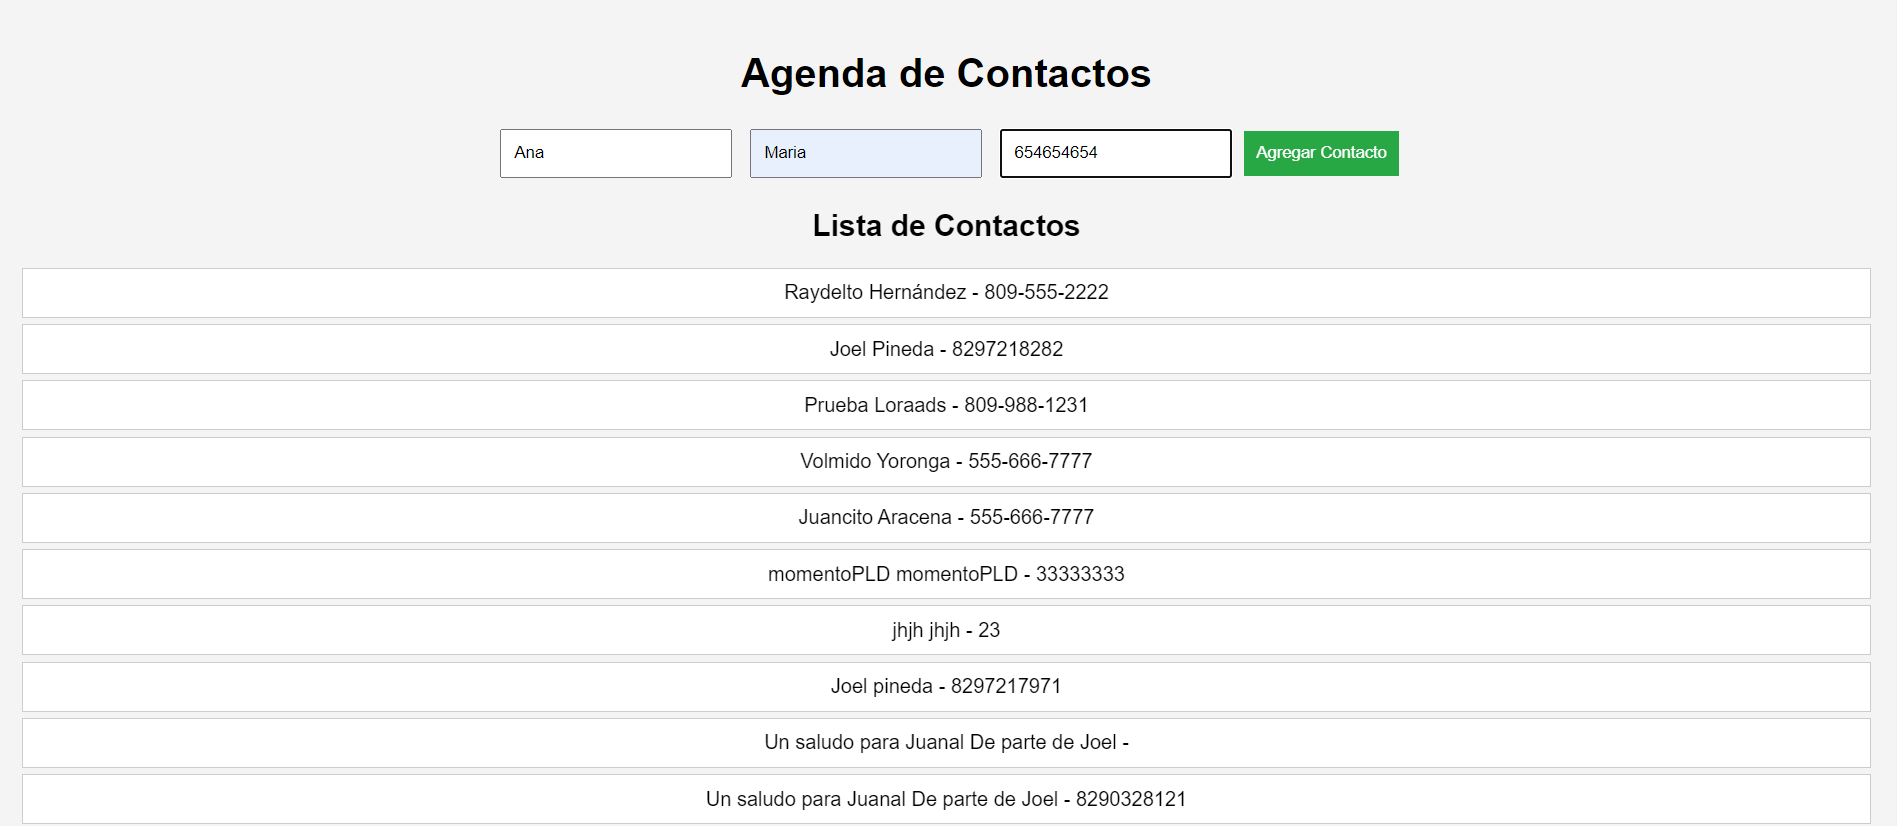
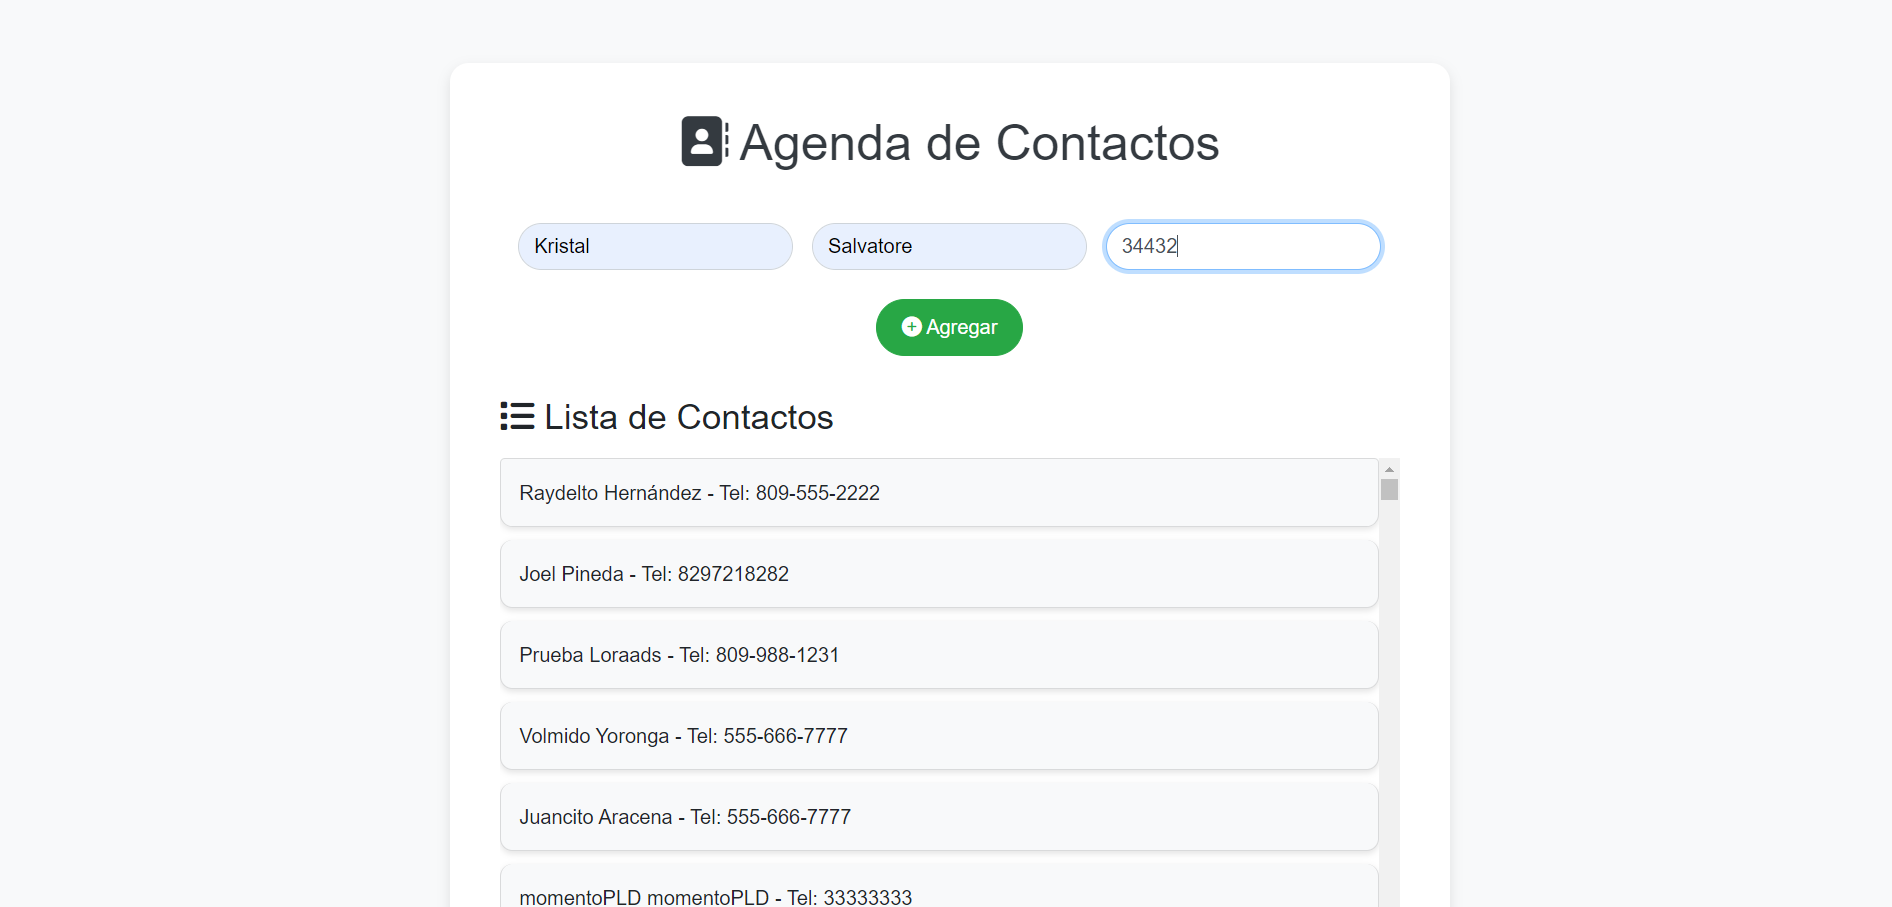
Actualizado

diff --git a/index.html b/index.html
@@ -6,70 +6,8 @@
     <title>Agenda Web</title>
     <link rel="stylesheet" href="https://stackpath.bootstrapcdn.com/bootstrap/4.5.2/css/bootstrap.min.css">
     <link rel="stylesheet" href="https://cdnjs.cloudflare.com/ajax/libs/font-awesome/6.0.0-beta3/css/all.min.css">
-    <style>
-        body {
-            background-color: #f8f9fa;
-            font-family: 'Roboto', sans-serif;
-        }
-        h1 {
-            text-align: center;
-            margin-bottom: 40px;
-            color: #343a40;
-        }
-        .container {
-            background-color: #ffffff;
-            border-radius: 15px;
-            box-shadow: 0px 4px 10px rgba(0, 0, 0, 0.1);
-            padding: 40px;
-            margin-top: 50px;
-            max-width: 800px;
-        }
-        .form-inline .form-control {
-            width: auto;
-            display: inline-block;
-            border-radius: 30px;
-        }
-        #agregarContacto {
-            background-color: #28a745;
-            border-color: #28a745;
-            padding: 10px 20px;
-            border-radius: 30px;
-        }
-        #agregarContacto:hover {
-            background-color: #218838;
-            border-color: #218838;
-        }
-        #contacts {
-            max-height: 400px;
-            overflow-y: auto;
-            margin-top: 20px;
-        }
-        .list-group-item {
-            display: flex;
-            justify-content: space-between;
-            align-items: center;
-            background-color: #f8f9fa;
-            border-radius: 10px;
-            margin-bottom: 10px;
-            padding: 15px;
-            box-shadow: 0px 2px 5px rgba(0, 0, 0, 0.1);
-        }
-        .list-group-item i {
-            color: #17a2b8;
-        }
-        .form-inline {
-            display: flex;
-            flex-wrap: wrap;
-            justify-content: center;
-            gap: 15px;
-        }
-        footer {
-            margin-top: 30px;
-            text-align: center;
-            font-size: 14px;
-            color: #6c757d;
-        }
-    </style>
+    <link rel="stylesheet" href="./CSS/Styless.css">
+
 </head>
 <body>
     <div class="container">

diff --git a/CSS/Styless.css b/CSS/Styless.css
@@ -1,0 +1,62 @@
+body {
+    background-color: #f8f9fa;
+    font-family: 'Roboto', sans-serif;
+}
+h1 {
+    text-align: center;
+    margin-bottom: 40px;
+    color: #343a40;
+}
+.container {
+    background-color: #ffffff;
+    border-radius: 15px;
+    box-shadow: 0px 4px 10px rgba(0, 0, 0, 0.1);
+    padding: 40px;
+    margin-top: 50px;
+    max-width: 800px;
+}
+.form-inline .form-control {
+    width: auto;
+    display: inline-block;
+    border-radius: 30px;
+}
+#agregarContacto {
+    background-color: #28a745;
+    border-color: #28a745;
+    padding: 10px 20px;
+    border-radius: 30px;
+}
+#agregarContacto:hover {
+    background-color: #218838;
+    border-color: #218838;
+}
+#contacts {
+    max-height: 400px;
+    overflow-y: auto;
+    margin-top: 20px;
+}
+.list-group-item {
+    display: flex;
+    justify-content: space-between;
+    align-items: center;
+    background-color: #f8f9fa;
+    border-radius: 10px;
+    margin-bottom: 10px;
+    padding: 15px;
+    box-shadow: 0px 2px 5px rgba(0, 0, 0, 0.1);
+}
+.list-group-item i {
+    color: #17a2b8;
+}
+.form-inline {
+    display: flex;
+    flex-wrap: wrap;
+    justify-content: center;
+    gap: 15px;
+}
+footer {
+    margin-top: 30px;
+    text-align: center;
+    font-size: 14px;
+    color: #6c757d;
+}

diff --git a/README.md b/README.md
@@ -1,6 +1,6 @@
 # AgendaMulticapas
 
-Tarea de Programacion web.
+Tarea de Programacion web. - Agenda
 
 ![alt text](image.png)
 ![alt text](image-1.png)
